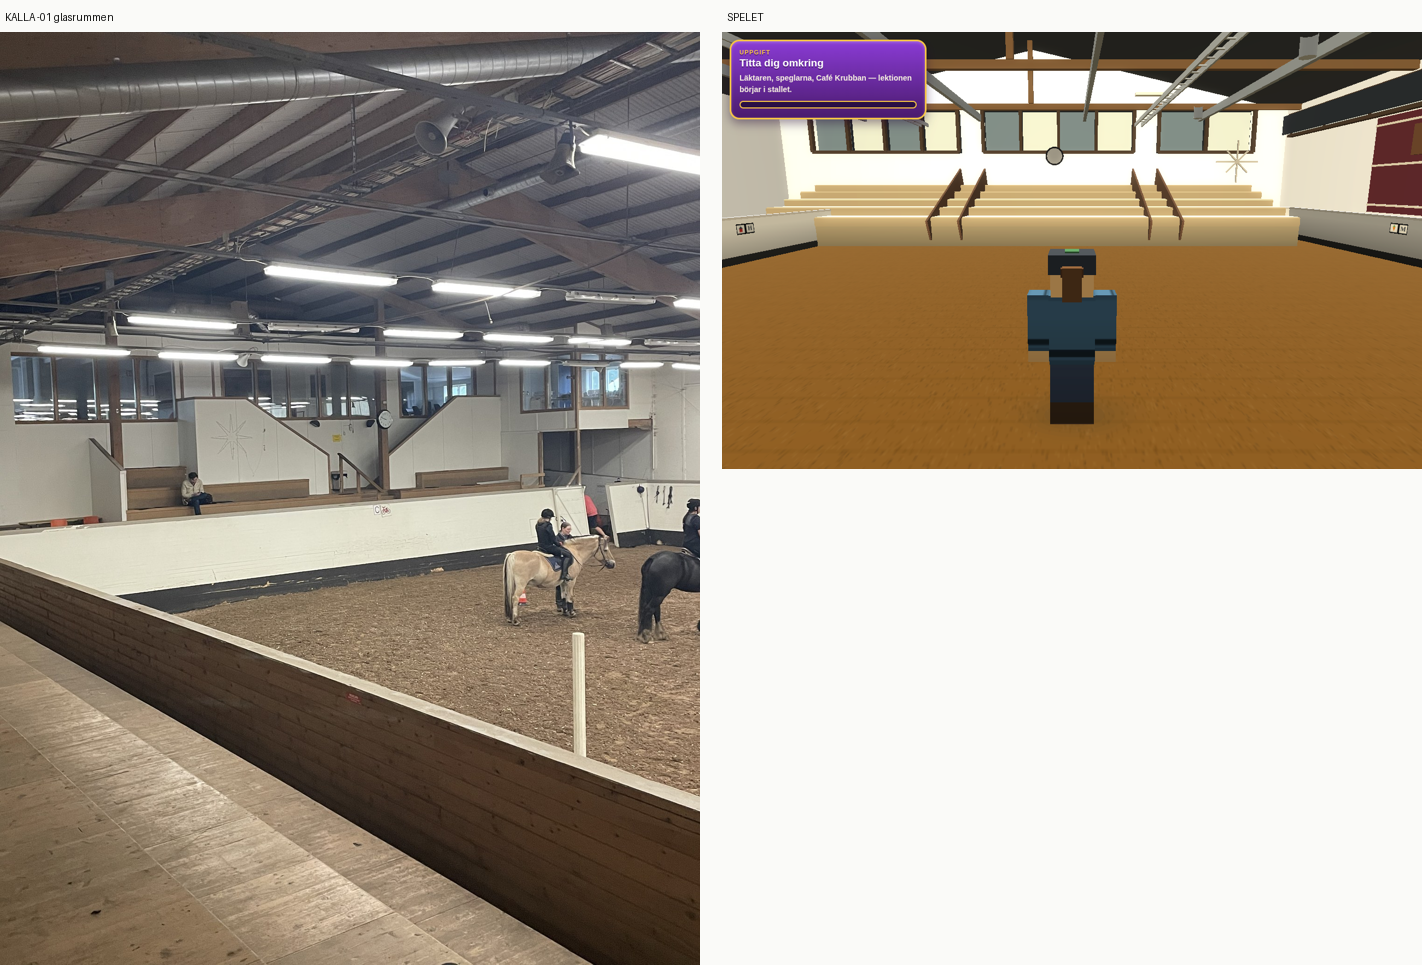
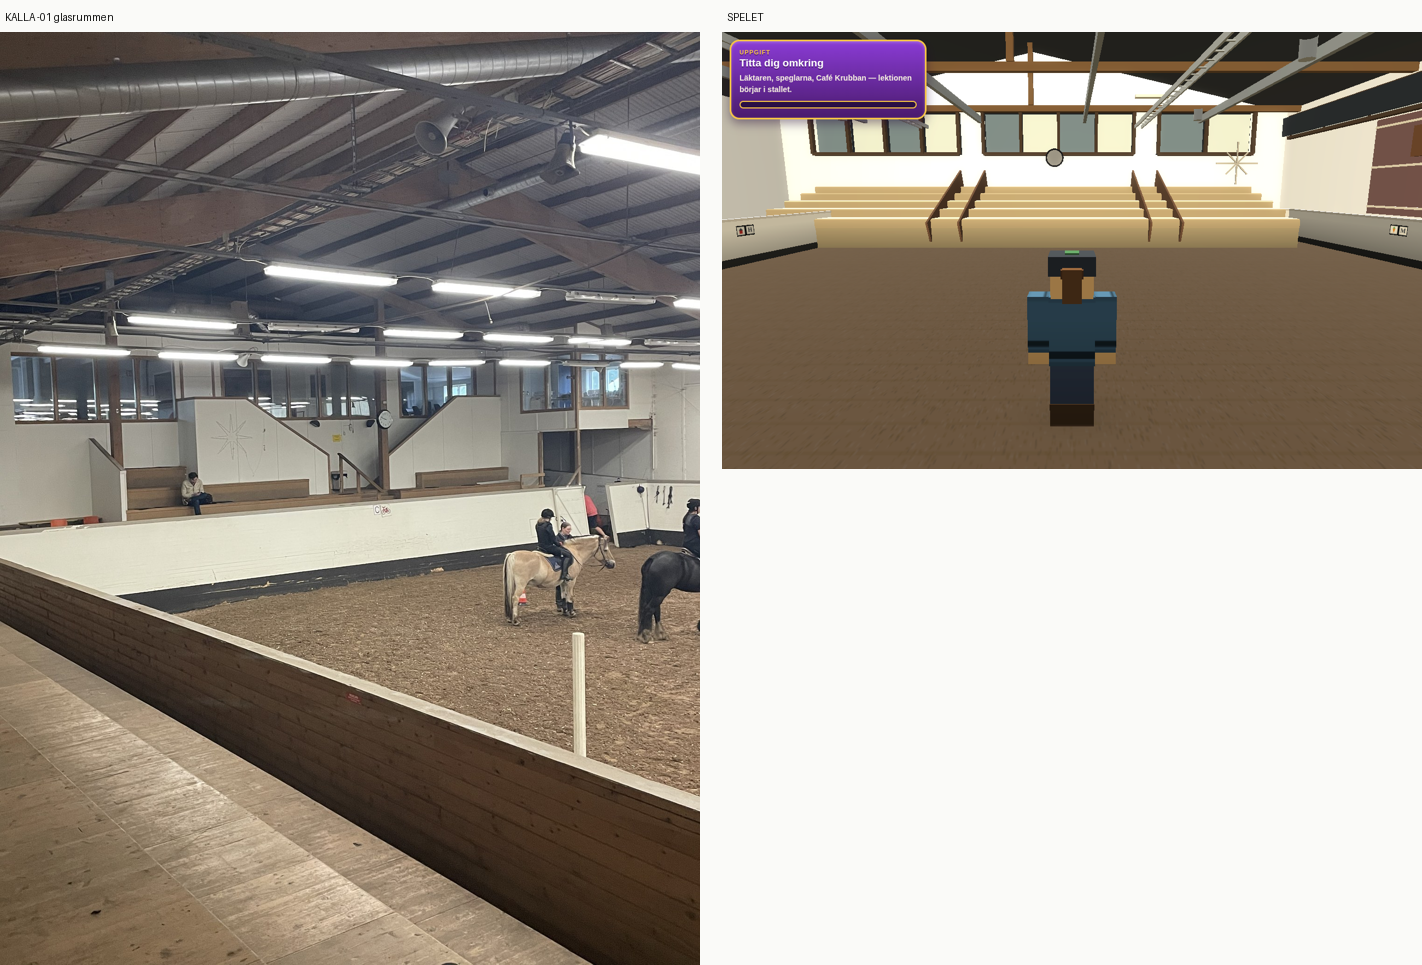
Punkt 7 första passet: panelen var för mättad, sanden lästes aldrig ur datan
Ytorna mätta i fotona med beskär-titta-mät. Fyra av sju första prov träffade
fel yta — sarg i stället för sockel, banan i stället för panelen — och
förkastades. Bara visuellt kontrollerade prov är använda.

PANELEN stod som #5E2C33, ett mättat rödlila, ur ett gammalt textderivat som
kallade den "mörkröd/maroon". Färgmask på ridhus-inne-02, med masken
kontrollerad som grön overlay över just den väggen och utanför
sponsorskyltarna, ger #765B59 — en betydligt dovare gråbrun-mauve. Bilden är
facit, och den är dovare än ordet.

SANDEN lästes aldrig ur datan: banans underlag ritades med ett literalt
"#9C8663" i renderaren och rörde inte RIDHUSINNE.sandFarg. Samma dolda literal
som gårdsplanen, silon och sponsorskyltarna fällts på — ändrar man datan
händer ingenting. Den läser nu datan, och renderar #746049 mot fotots #6F5D4D.

Sanden kompenseras KANALVIS trots att jag två gånger förkastat det. Skillnaden
står i matrisen: det som sprängde reglarna och väggen var kanalvis invertering
av LJUSET på ytor med varierande infallsvinkel. Sanden är en plan, jämnt
belyst golvyta där en varm TEXTUR är den avvikande faktorn — samma fall som
stallets marksten, där det konvergerade.

Kvar i punkt 7: läktardäckets plank renderas ljusare än fotot, kortändans
bänkar är inte mätta, takets ljussättning inte alls.

Roblox Studio är inte körd.

Claude-Session: https://claude.ai/code/session_01RBDjv5xAUC4NuuvYQvQjGc

Changed region(s): [[0.4951, 0.0311, 1.0, 0.4974]]

diff --git a/src/varld3d.js b/src/varld3d.js
@@ -1142,10 +1142,28 @@ function v3dRidhus(lagg,opp){
   const R=RIDHUSINNE, ba=R.bana, T=S3.tex;
   lagg(new Bygge().yta(R.bredd,R.langd,"#FFFFFF",
     M4.translation(R.bredd/2,0.01,R.langd/2),8),T.grus);
-  /* Underlaget inne är brunt och träfiberbemängt — inte utebanans gula
-     sand. Tonen tas ner på plats i stället för att göra en egen textur. */
-  lagg(new Bygge().yta(ba.w,ba.h,"#9C8663",
-    M4.translation(ba.x+ba.w/2,0.03,ba.y+ba.h/2),9),T.sand);
+  /* Underlaget inne är brunt och träfiberbemängt — inte utebanans gula sand.
+
+     Tonen låg som ett LITERALT tal här ("#9C8663") och läste alltså inte
+     RIDHUSINNE.sandFarg alls. Samma dolda literal som gårdsplanen, silon och
+     sponsorskyltarna fällts på: ändrar man datan händer ingenting.
+
+     Mätt: literalen renderades #976930 mot fotots #6F5D4D (`-03`) — mycket
+     ljusare och kraftigt orangare, blått nedtryckt från 0x4D till 0x30. Det
+     är T.sand-texturens varma ton, inte ljuset.
+
+     Kompensationen är KANALVIS, och det är avsiktligt: det som sprängde
+     boxfronternas reglar och ridhusväggen var kanalvis invertering av
+     LJUSET på ytor med varierande infallsvinkel. Det här är en plan,
+     jämnt belyst golvyta där texturen är den varma faktorn — samma fall som
+     stallets marksten, där kanalvis kompensation konvergerade på några
+     enheter. Kvoterna är mätta, inte gissade. */
+  {const SK=[0.968,0.784,0.485];
+   const sandBas="#"+[1,3,5].map((i,k)=>
+     Math.min(255,Math.round(parseInt(R.sandFarg.substr(i,2),16)/SK[k]))
+       .toString(16).padStart(2,"0")).join("");
+   lagg(new Bygge().yta(ba.w,ba.h,sandBas,
+     M4.translation(ba.x+ba.w/2,0.03,ba.y+ba.h/2),9),T.sand);}
   /* Sargen med svart sockel — porten vid A lämnas öppen. */
   const sarg=new Bygge();
   const bit=(x0,z0,x1,z1)=>{

diff --git a/src/site.js b/src/site.js
@@ -1156,11 +1156,24 @@ const RIDHUSINNE = {
      origo y = 41,82. */
   bredd:RIDHUS_BREDD, langd:RIDHUS_LANGD, tak:6.2, entre:13,
   bana:{x:0.6, y:2, w:20, h:60}, sargH:1.35,
-  vagg:"#E9E5DC", sockel:"#2E2E2C", sandFarg:"#5E4A36", gangFarg:"#8C8880",
+  vagg:"#E9E5DC", sockel:"#2E2E2C", sandFarg:"#6F5D4D", gangFarg:"#8C8880",
   /* MOTSÄGELSE 1 ur DRIVE-SOURCE-INDEX (`IMG_0183`): långsidans övre
      väggyta är MÖRKRÖD/MAROON med horisontella detaljer, inte brun
      träpanel. Rättad 2026-08-30. Listen är den horisontella detaljen. */
-  panel:"#5E2C33", panelList:"#E8DFCE",
+  /* PANELEN OMMÄTT ur `ridhus-inne-02` med färgsökning i det stycke där den
+     syns, och masken visuellt kontrollerad som grön overlay: den täcker
+     väggen mellan de vita banden och utesluter sponsorskyltarna.
+
+       mätt  #765B59   44 400 px
+
+     Stod som `#5E2C33`, ett mättat rödlila. Fotot visar en betydligt
+     dovare, gråbrun-mauve ton. Beskrivningen "mörkröd/maroon" i det gamla
+     textderivatet drog åt fel håll — bilden är facit, och den är dovare än
+     ordet.
+
+     Sanden ommätt i `-03`: #6F5D4D mot spelets #5E4A36, alltså ljusare och
+     gråare än spelet hade den. */
+  panel:"#765B59", panelList:"#E8DFCE",
   /* Läktaren längs östväggen. GAPET är påtvingat av verifierad topologi:
      satellitbilden lägger hästgången centralt, på lokala y 45,3–48,8, och
      där kan läktaren inte vara obruten — man ska kunna leda hästen igenom.

diff --git a/references/buildings/ridhus/INTERIOR-MATRIS.md b/references/buildings/ridhus/INTERIOR-MATRIS.md
@@ -377,3 +377,55 @@ spegling är därmed en dataändring även för väggdekoren.
    elefant är sämre än ingen fläck. Står som verifierat men inte byggt, inte
    som `REFERENCE GAP`: källan är tydlig, det är renderingsskalan som är
    gränsen.
+
+---
+
+# Punkt 7 · ljus- och materialkaraktär, första passet
+
+Ytorna mätta i fotona med beskär-titta-mät, och renderingen mätt mot dem.
+Fyra av sju första prov träffade fel yta och förkastades — värdena nedan är
+bara de visuellt kontrollerade.
+
+| yta | foto | render före | render efter | utfall |
+|---|---|---|---|---|
+| bansand | `#6F5D4D` (`-03`) | `#976930` | `#746049` | `RESOLVED` |
+| rostbrun panel | `#765B59` (`-02`, färgmask) | `#83512C`* | `#745348` | `RESOLVED` |
+| sargens vita bräda | `#E3E0D1` (`-03`) | — | — | spelet har `#E9E5DC`, inom mätfelet |
+| läktarfronten | `#4C3B2D` (`-01`) | — | — | spelet har `#4E3626`, inom mätfelet |
+| läktardäckets plank | `#A69279` (`-01`) | — | — | spelet har `#C9BCA4`, ljusare |
+
+\* kontaminerat av sanden i samma mask; panelens egna region gav `#745348`.
+
+## Två fynd
+
+**1. Panelen var för mättad.** Stod som `#5E2C33`, ett mättat rödlila, ur ett
+gammalt textderivat som kallade den "mörkröd/maroon". Färgmask på `-02`, med
+masken visuellt kontrollerad som grön overlay över just den väggen och
+utanför sponsorskyltarna, ger `#765B59` — en betydligt dovare gråbrun-mauve.
+**Bilden är facit, och den är dovare än ordet.**
+
+**2. Sanden lästes aldrig ur datan.** Banans underlag ritades med ett
+LITERALT `"#9C8663"` i renderaren och läste inte `RIDHUSINNE.sandFarg` alls.
+Samma dolda literal som gårdsplanen, silon och sponsorskyltarna fällts på:
+ändrar man datan händer ingenting. Den läser nu datan.
+
+## Om den kanalvisa kompensationen
+
+Sanden kompenseras KANALVIS, och det är avsiktligt trots att jag två gånger
+förkastat kanalvis kompensation i det här arbetet. Skillnaden:
+
+- det som sprängde boxfronternas reglar och ridhusväggen var kanalvis
+  invertering av LJUSET på ytor med varierande infallsvinkel — highlights
+  klipper och tonen spårar ur,
+- sanden är en plan, jämnt belyst golvyta där en varm TEXTUR är den
+  avvikande faktorn. Samma fall som stallets marksten, där kanalvis
+  kompensation konvergerade på några enheter.
+
+Kvoterna är mätta på skärmdump, inte gissade, och resultatet är verifierat:
+`#746049` mot målet `#6F5D4D`.
+
+## Kvar i punkt 7
+
+- Läktardäckets plank renderas ljusare än fotot; inte åtgärdat.
+- Kortändans bänkar är inte mätta — mina prov träffade sarg och sand.
+- Takets ljussättning är inte mätt alls.
